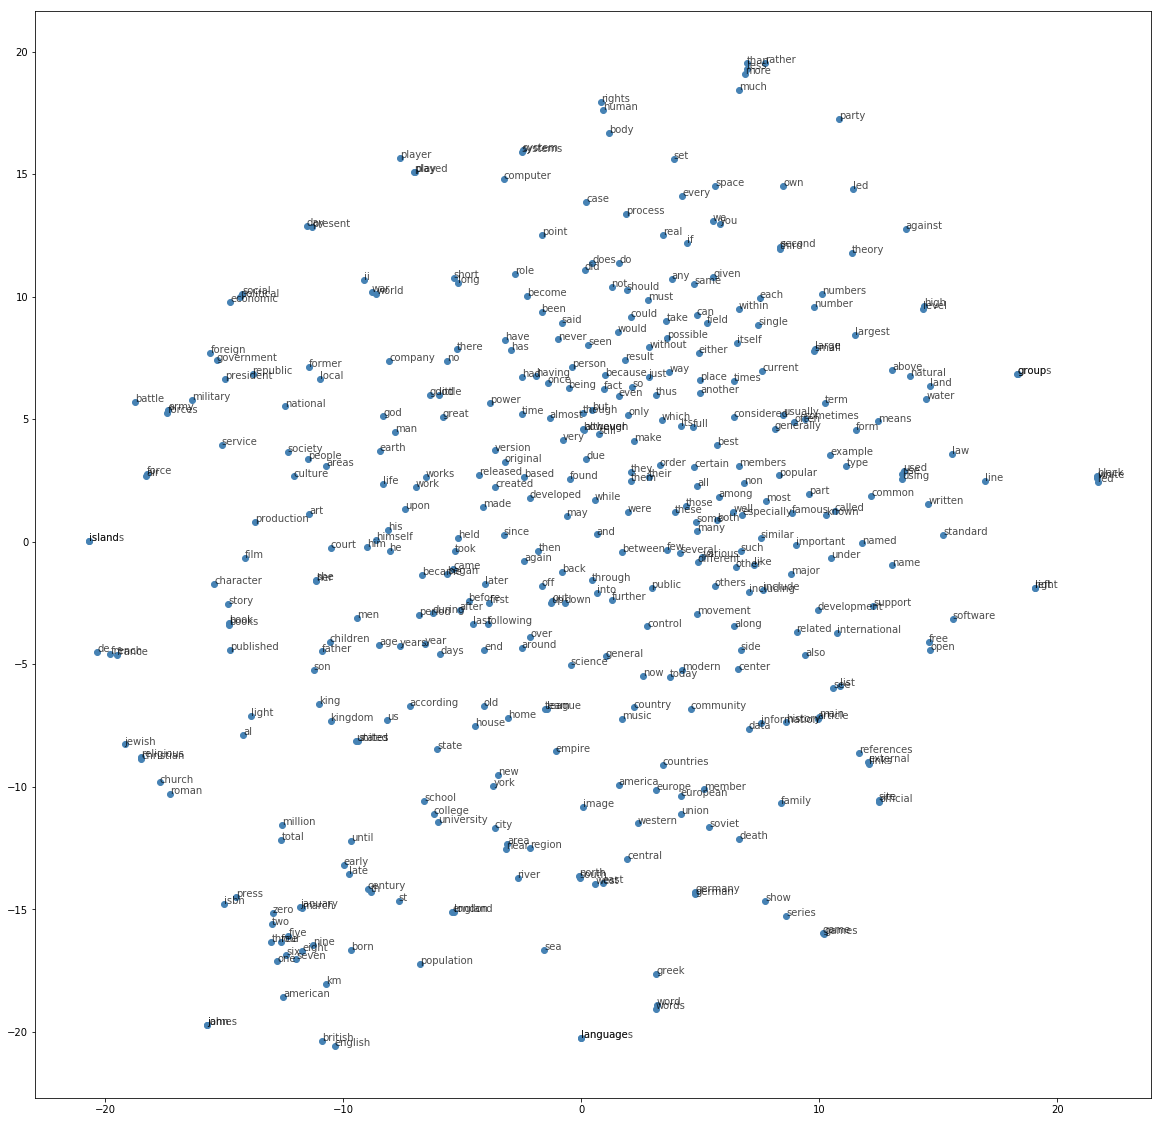
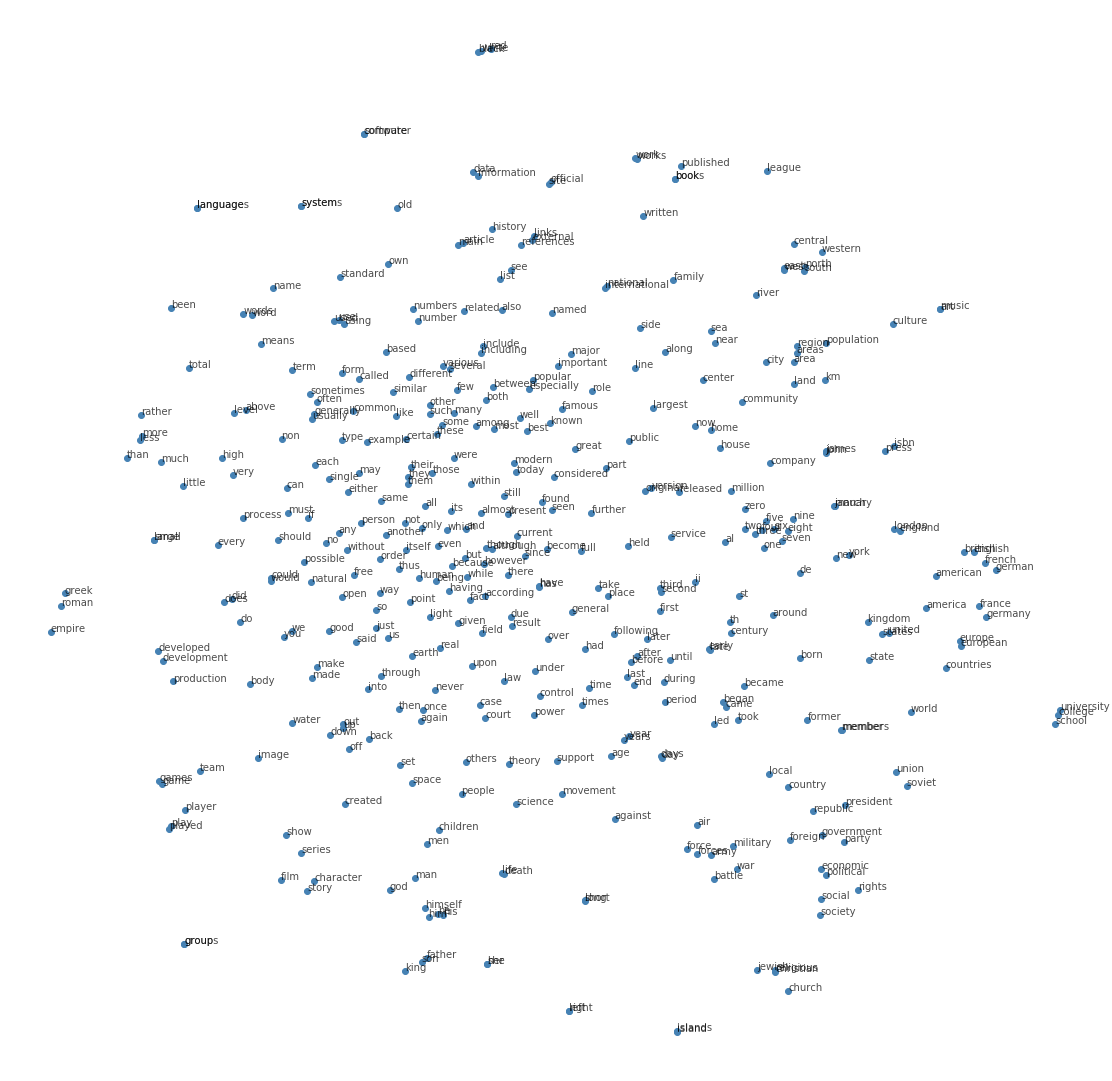
Added new results to README

diff --git a/04-word2vec/README.md b/04-word2vec/README.md
@@ -44,13 +44,23 @@ def sample(corpus, window_size):
 
 Przeprowadziłem testy, eksperymentując z parametrami modelu, poniżej przedstawiam wyniki:
 
+#### Negative sampling = 10 ####
 lp | maks. gensim | maks. acc. | nr epoki | optimizer | embedding size | window size | szczegóły | uwagi
 ---|--------------|------------|----------|-----------|----------------|-------------|-----------|-------
 1 | 2076 | 16.92% | 36 | AdamOptimizer(0.01) | 50 | 5 | rzadkie słowa usunięte z korpusu | -
 2 | 2316 | 18.88% | 7 | AdamOptimizer(0.001) | 60 | 8 | rzadkie słowa zastąpione symbolem unk | -
 3 | 382 | 3.11% | 52 | AdamOptimizer(0.001) | 50 | 5 | rzadkie słowa zastąpione symbolem unk | model się nie uczył -> rosnący loss
 4 | 2315 | 18.87% | 16 | AdamOptimizer(0.001) | 50 | 5 | rzadkie słowa zastąpione symbolem unk | model był za słaby i od 6 epoki praktycznie się nie uczył
-5 | 2402 | 19.58% | 41 | AdamOptimizer with exponential decay (start=0.005, 0.82/20000) | 50 | 5 | rzadkie słowa zastąpione symbolem unk | - 
+5 | 2402 | 19.58% | 41 | AdamOptimizer with exponential decay (start=0.005, 0.82/20000) | 50 | 5 | rzadkie słowa zastąpione symbolem unk | -
+
+Ewaluacja modelu #5, przy różnych parametrach:
+
+
+lp | maks. gensim | maks. acc. | nr epoki | embedding size | window size | batch_size | negative_sampling
+---|--------------|------------|----------|-----------|----------------|-------------|-----------|-------
+6 | 4795 | 39.28% | 9 | 50 | 5 | 8192 | **512**
+7 | 4515 | 36.98% | 18 | 50 | 5 | 8192 | **768**
+8 | **5064** | 41.48% | 14 | 150 | 10 | 8192 | **768**
 
 ![Wizualizacja top400](word2vec.png)
 *Wizaulizacja 400 najczęstszych słów*
